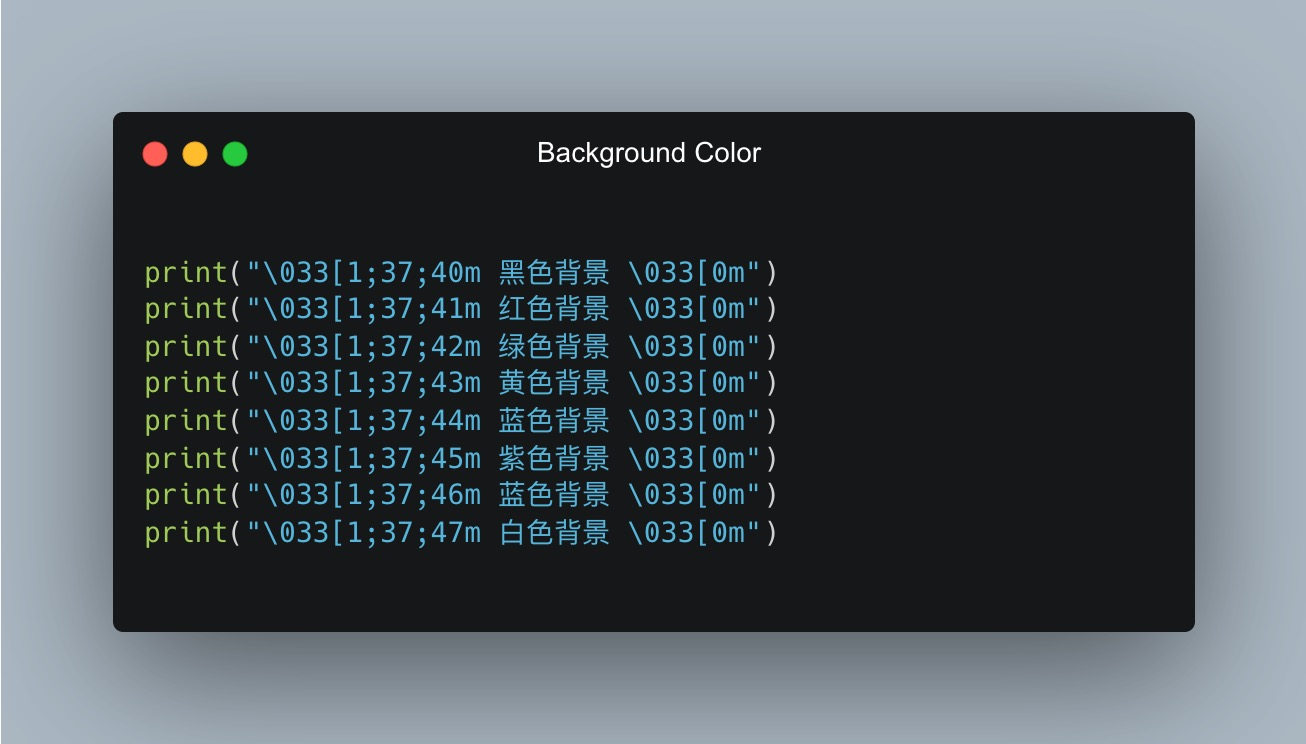
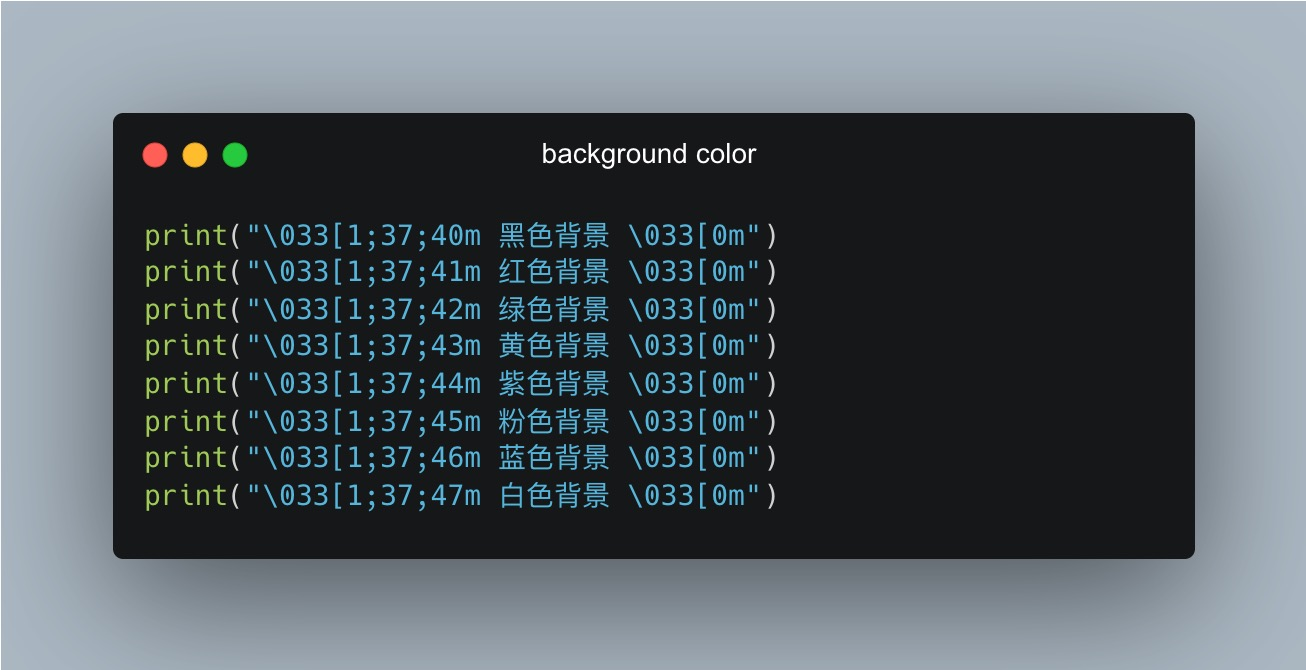
feat(post): 发布终端颜色

Changed region(s): [[0.0919, 0.3284, 0.6126, 0.7761], [0.0613, 0.1493, 0.9188, 0.2687], [0.0919, 0.8358, 0.9188, 0.8657]]

diff --git a/img/in-post/post-cmdcolor/backgroundcolor.py b/img/in-post/post-cmdcolor/backgroundcolor.py
@@ -1,0 +1,8 @@
+print("\033[1;37;40m 黑色背景 \033[0m")
+                                   print("\033[1;37;41m 红色背景 \033[0m")
+                                   print("\033[1;37;42m 绿色背景 \033[0m")
+                                   print("\033[1;37;43m 黄色背景 \033[0m")
+                                   print("\033[1;37;44m 紫色背景 \033[0m")
+                                   print("\033[1;37;45m 粉色背景 \033[0m")
+                                   print("\033[1;37;46m 蓝色背景 \033[0m")
+                                   print("\033[1;37;47m 白色背景 \033[0m")

diff --git a/img/in-post/post-cmdcolor/fontcolor.py b/img/in-post/post-cmdcolor/fontcolor.py
@@ -1,0 +1,8 @@
+print("\033[1;30;40m 黑色字体 \033[0m")
+print("\033[1;31;40m 红色字体 \033[0m")
+print("\033[1;32;40m 绿色字体 \033[0m")
+print("\033[1;33;40m 黄色字体 \033[0m")
+print("\033[1;34;40m 紫色字体 \033[0m")
+print("\033[1;35;40m 粉色字体 \033[0m")
+print("\033[1;36;40m 蓝色字体 \033[0m")
+print("\033[1;37;40m 白色字体 \033[0m")
